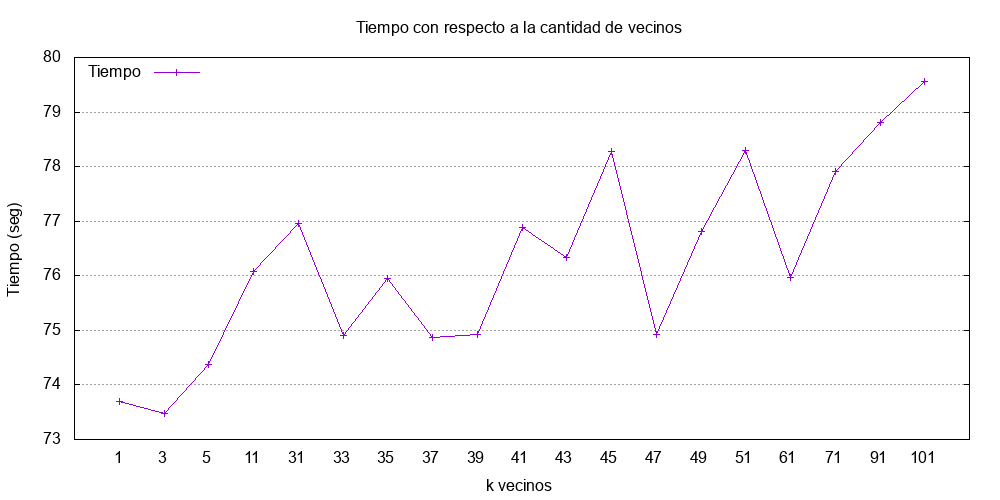
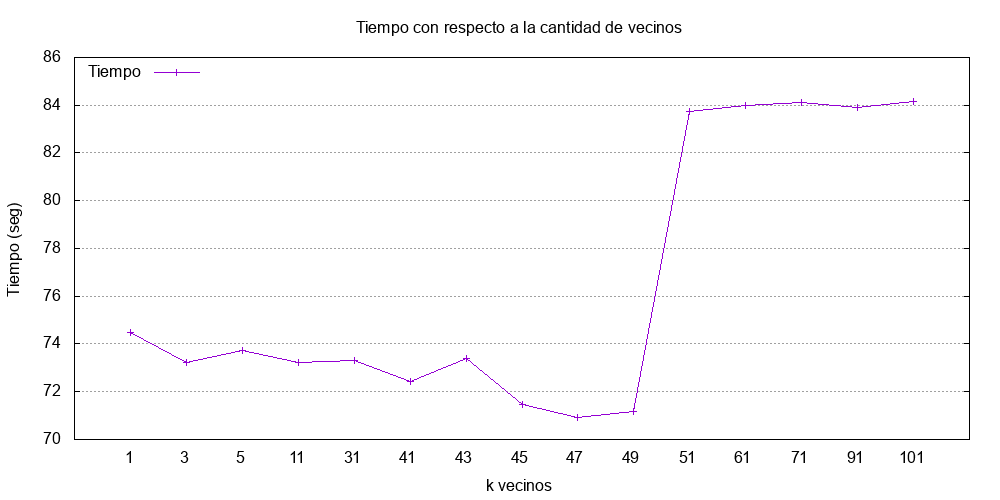
a

diff --git a/herramientas/resultadosF.py b/herramientas/resultadosF.py
@@ -19,8 +19,8 @@ neg_f1score = []
 for line in fileinput.input():
     lexp = line.split(",")
     if lexp[0] != "fqmin":
-        fmins.append(lexp[0]) 
-        fmaxs.append(lexp[1]) 
+        fmins.append(float(lexp[0])) 
+        fmaxs.append(float(lexp[1]))
         tams.append(int(lexp[2]))
         tiempos.append(float(lexp[3]))
         accuracys.append(float(lexp[4]))
@@ -31,11 +31,8 @@ for line in fileinput.input():
         neg_recall.append(float(lexp[9]))
         neg_f1score.append(float(lexp[10]))
         resto.append(lexp[11:])
-
-print tams
-print tiempos
-xtics=", ".join(["'"+str(tams[i])+"' "+str(i) for i in range(len(tams))])
-maxAcc = max(accuracys)
+size = len(accuracys)
+xtics=", ".join(["'"+str(tams[i])+"' "+str(i) for i in range(size)])
 
 g = Gnuplot.Gnuplot()
 g.xlabel("#palabras aceptadas")
@@ -43,79 +40,52 @@ g("set key top left")
 g("set terminal png size 1000, 500")
 g("set grid y")
 g("set grid x")
-#g("set style data histograms")
-#g("set style histogram rowstacked")
-#g("set boxwidth 0.8")
-#g("set style fill solid 1 border -1")
-#g("set xtics("+xtics+") scale 0")
-#g("set xrange [-1:"+str(len(tams))+"]")
-
-#g("set ytics 0.01 nomirror")
-#g("set yrange [0.65:0.68]")
-
-#g("xequiv=100")
-d7 = Gnuplot.Data(tams,tiempos,using="1:2",title="Tiempo",with_="linespoints")
-#d8 = Gnuplot.Data(range(len(tams)),[ maxAcc for i in range(len(tams))],using="2",title=str(round(maxAcc,6)).replace('.',','),with_="lines lt 2 lw 2")
-
-#PLOT ACCURACY
-#g("set yrange [:0.7]")
-g.ylabel("Tiempo(s)")
+d7 = Gnuplot.Data(tams,tiempos,using="1:2",title="Tiempo (seg)",with_="points")
+g.ylabel("Tiempo (seg)")
 g("set output 'tiempo-variacion-tam.png'")
 g.title("Tiempo con respecto al tamaño del vocabulario")
 g.plot(d7)
+del g
 
-"""g("set style histogram cluster gap 1")#g("set style histogram rowstacked")
+def igualFloat(valor,igual):
+    return igual-0.001 < valor and  valor < igual+0.001
+fminsSinDup = list(set(fmins))
+size2 = len(fminsSinDup)
 
-#PLOT F1SCORE
-g("set yrange [:0.74]")
-g.title("F1-score")
-g.ylabel("F1-score")
-#g("set yrange [0.5:0.8]")
-g("set output 'f1score-variacion-alfa.png'")
-g.plot(d5,d6)
-g("unset yrange")
+a = [ round(float(i)/100,2) for i in range(5,21,1)]
+b03 = [ round(accuracys[i],6) for i in range(size) if igualFloat(fmaxs[i],0.3)]
+b04 = [ round(accuracys[i],6) for i in range(size) if igualFloat(fmaxs[i],0.4)]
+b05 = [ round(accuracys[i],6) for i in range(size) if igualFloat(fmaxs[i],0.5)]
+b06 = [ round(accuracys[i],6) for i in range(size) if igualFloat(fmaxs[i],0.6)]
+b07 = [ round(accuracys[i],6) for i in range(size) if igualFloat(fmaxs[i],0.7)]
+b08 = [ round(accuracys[i],6) for i in range(size) if igualFloat(fmaxs[i],0.8)]
+b09 = [ round(accuracys[i],6) for i in range(size) if igualFloat(fmaxs[i],0.9)]
+b1  = [ round(accuracys[i],6) for i in range(size) if igualFloat(fmaxs[i],1)]
+xtics=", ".join(["'"+str(a[i]).replace(".",",")+"' "+str(i) for i in range(len(a))])
+#print a;
 
-#PLOT PRECISION
-g.title("Precision")
-g.ylabel("Precision")
-#g("set yrange [0.5:0.8]")
-#g("set ytics 0.05")
-g("set output 'precision-variacion-alfa.png'")
-dl = Gnuplot.Data(tams,[0.625 for i in range(len(tams))],using=2,with_="lines lw 2",title="0,625" )
-g.plot(d1,d2)
-g("unset yrange")
-
-#PLOT RECALL
-g.title("Recall")
-g.ylabel("Recall")
-#g("set yrange [0.4:0.9]")
-g("set output 'recall-variacion-alfa.png'")
-g.plot(d3,d4)
-g("unset yrange")
-
-
-d1 = Gnuplot.Data(tams,pos_precision,using="2", title="Precision")
-d2 = Gnuplot.Data(tams,neg_precision,using="2", title="Precision")
-d3 = Gnuplot.Data(tams,pos_recall,using="2", title="Recall" )
-d4 = Gnuplot.Data(tams,neg_recall,using="2", title="Recall" )
-d5 = Gnuplot.Data(tams,pos_f1score,using="2", title="F1-score" )
-d6 = Gnuplot.Data(tams,neg_f1score,using="2", title="F1-score" )
-
-#POSITIVAS
-g.title("Reviews Positivos")
-g.ylabel("Métricas")
-#g("set yrange [0.4:0.8]")
-g("set output 'metricas-pos-variacion-alfa.png'")
-g.plot(d1,d3,d5)
-g("unset yrange")
-
-#NEGATIVAS
-g.title("Reviews Negativos")
-g.ylabel("Métricas")
-#g("set yrange [0.5:0.9]")
-g("set output 'metricas-neg-variacion-alfa.png'")
-g.plot(d2,d4,d6)
-g("unset yrange")
-
-"""
+g = Gnuplot.Gnuplot()
+g.xlabel("freq min ")
+g("set key top right")
+g("set terminal png size 1000, 500")
+g("set style data histograms")
+g("set style histogram cluster gap 1")#g("set style histogram rowstacked")
+g("set boxwidth 1")
+g("set style fill solid 1 border 0")
+g("set xtics("+xtics+") scale 0")
+g("set xrange [-1:"+str(size2)+"]")
+g("set grid y")
+#g("set grid x")
+d1 = Gnuplot.Data(a, b03, using="2",title="frec. max=0,3")
+d2 = Gnuplot.Data(a, b04, using="2",title="frec. max=0,4")
+d3 = Gnuplot.Data(a, b05, using="2",title="frec. max=0,5")
+d4 = Gnuplot.Data(a, b06, using="2",title="frec. max=0,6")
+d5 = Gnuplot.Data(a, b07, using="2",title="frec. max=0,7")
+d6 = Gnuplot.Data(a, b08, using="2",title="frec. max=0,8")
+d7 = Gnuplot.Data(a, b09, using="2",title="frec. max=0,9")
+d8 = Gnuplot.Data(a, b1,  using="2",title="frec. max=1,0")
+g.ylabel("Accuracy")
+g("set output 'accuracy-variacion-frango.png'")
+g.title("Accuracy con respecto al rango de frecuencia de palabras")
+g.plot(d1,d2,d3,d4,d5,d6,d7,d8)
 del g

diff --git a/herramientas/resultadosTiempos.py b/herramientas/resultadosTiempos.py
@@ -4,120 +4,25 @@ import numpy
 import Gnuplot
 from functools import reduce
 
-resto = []
+metodos = []
+folds = []
+fmins = []
+fmaxs = []
 ks = []
+alfas = []
 tiempos = []
-accuracys= []
-pos_precision= []
-pos_recall = []
-pos_f1score = []
-neg_precision= []
-neg_recall = []
-neg_f1score = []
 for line in fileinput.input():
     lexp = line.split(",")
-    if lexp[0] != "k":
-        ks.append(int(lexp[0])) 
-        tiempos.append(float(lexp[1]))
-        accuracys.append(float(lexp[2]))
-        pos_precision.append(float(lexp[3]))
-        pos_recall.append(float(lexp[4]))
-        pos_f1score.append(float(lexp[5]))
-        neg_precision.append(float(lexp[6]))
-        neg_recall.append(float(lexp[7]))
-        neg_f1score.append(float(lexp[8]))
-        resto.append(lexp[9:])
+    if lexp[0] != "metodo":
+        metodos.append(lexp[0])
+        folds.append(lexp[1])
+        fmins.append(float(lexp[2]))
+        fmaxs.append(float(lexp[3]))
+        ks.append(int(lexp[4]))
+        alfas.append(int(lexp[5]))
+        tiempos.append(float(lexp[6]))
 
-xtics=", ".join(["'"+str(ks[i])+"' "+str(i) for i in range(len(ks))])        
-maxAcc = max(accuracys)
-
-g = Gnuplot.Gnuplot()
-g.xlabel("k vecinos")
-g("set key top left")
-g("set terminal png size 1000, 500")
-g("set grid y")
-g("set style data histograms")
-g("set style histogram rowstacked")
-g("set boxwidth 0.8")
-g("set style fill solid 1 border -1")
-g("set xtics("+xtics+") scale 0")
-g("set xrange [-1:"+str(len(ks))+"]")
-
-#g("set ytics 0.01 nomirror")
-#g("set yrange [0.65:0.68]")
-
-#g("xequiv=100")
-d1 = Gnuplot.Data(ks,pos_precision,using="2", title="Reviews Positivos")
-d2 = Gnuplot.Data(ks,neg_precision,using="2", title="Reviews Negativos")
-d3 = Gnuplot.Data(ks,pos_recall,using="2", title="Reviews Positivos" )
-d4 = Gnuplot.Data(ks,neg_recall,using="2", title="Reviews Negativos" )
-d5 = Gnuplot.Data(ks,pos_f1score,using="2", title="Reviews Positivos" )
-d6 = Gnuplot.Data(ks,neg_f1score,using="2", title="Reviews Negativos" )
-d7 = Gnuplot.Data(ks,accuracys,using="2",title="Accuracy")
-d8 = Gnuplot.Data(range(len(ks)),[ maxAcc for i in range(len(ks))],using="2",title=str(round(maxAcc,6)).replace('.',','),with_="lines lt 2 lw 2")
-
-#PLOT ACCURACY
-g("set yrange [:0.68]")
-g.ylabel("Accuracy")
-g("set output 'accuracy-variacion-k.png'")
-g.title("Evolución de accuracy ante variación de la cantidad de vecinos")
-g.plot(d7,d8)
-g("unset yrange")
-
-g("set style histogram cluster gap 1")#g("set style histogram rowstacked")
-
-#PLOT F1SCORE
-g("set yrange [:0.74]")
-g.title("F1-score")
-g.ylabel("F1-score")
-#g("set yrange [0.5:0.8]")
-g("set output 'f1score-variacion-k.png'")
-g.plot(d5,d6)
-g("unset yrange")
-
-#PLOT PRECISION
-g.title("Precision")
-g.ylabel("Precision")
-#g("set yrange [0.5:0.8]")
-#g("set ytics 0.05")
-g("set output 'precision-variacion-k.png'")
-dl = Gnuplot.Data(ks,[0.625 for i in range(len(ks))],using=2,with_="lines lw 2",title="0,625" )
-g.plot(d1,d2)
-g("unset yrange")
-
-#PLOT RECALL
-g.title("Recall")
-g.ylabel("Recall")
-#g("set yrange [0.4:0.9]")
-g("set output 'recall-variacion-k.png'")
-g.plot(d3,d4)
-g("unset yrange")
-
-
-d1 = Gnuplot.Data(ks,pos_precision,using="2", title="Precision")
-d2 = Gnuplot.Data(ks,neg_precision,using="2", title="Precision")
-d3 = Gnuplot.Data(ks,pos_recall,using="2", title="Recall" )
-d4 = Gnuplot.Data(ks,neg_recall,using="2", title="Recall" )
-d5 = Gnuplot.Data(ks,pos_f1score,using="2", title="F1-score" )
-d6 = Gnuplot.Data(ks,neg_f1score,using="2", title="F1-score" )
-
-#POSITIVAS
-g.title("Reviews Positivos")
-g.ylabel("Métricas")
-#g("set yrange [0.4:0.8]")
-g("set output 'metricas-pos-variacion-k.png'")
-g.plot(d1,d3,d5)
-g("unset yrange")
-
-#NEGATIVAS
-g.title("Reviews Negativos")
-g.ylabel("Métricas")
-#g("set yrange [0.5:0.9]")
-g("set output 'metricas-neg-variacion-k.png'")
-g.plot(d2,d4,d6)
-g("unset yrange")
-del g
-
+xtics=", ".join(["'"+str(ks[i])+"' "+str(i) for i in range(len(ks))])
 
 g = Gnuplot.Gnuplot()
 g.xlabel("k vecinos")

diff --git a/herramientas/analizandoFreq.php b/herramientas/analizandoFreq.php
@@ -34,7 +34,7 @@ $folds = [2, 5, 10, 25];
 $ks = [1, 3, 5, 11, 31, 33, 35, 37, 39, 41, 43, 45, 47, 49, 51, 61, 71, 91, 101];
 $alfas = range(10, 100, 10);
 $fmins = range(0.05, 0.2, 0.01);
-$fmaxs = range(0.3, 1.1, 0.1);
+$fmaxs = range(0.3, 1, 0.1);
 
 $archivo = fopen("resultados/agrupadosFreq.csv", 'r');
 $datos = [];

diff --git a/herramientas/agruparResultadosFreq.php b/herramientas/agruparResultadosFreq.php
@@ -4,7 +4,7 @@ $folds = [2, 5, 10, 25];
 $ks = [1, 3, 5, 11, 31, 33, 35, 37, 39, 41, 43, 45, 47, 49, 51, 61, 71, 91, 101];
 $alfas = range(10,100,10);
 $fmins = range(0.05, 0.2, 0.01);
-$fmaxs = range(0.3, 1.1, 0.1);
+$fmaxs = range(0.3, 1, 0.1);
 
 $ks = [35];//jarcodinggggg
 $alfas = [40];

diff --git a/herramientas/ejecutarFoldsFreq.php b/herramientas/ejecutarFoldsFreq.php
@@ -5,7 +5,7 @@ $ks = [1, 3, 5, 11, 31, 41, 43, 45, 47, 49, 51, 61, 71, 91, 101];
 $alfas = range(10, 200, 10);
 $metodo = 1;
 $fmins = range(0.05, 0.2, 0.01);
-$fmaxs = range(0.3, 1.1, 0.1);
+$fmaxs = range(0.3, 1, 0.1);
 
 $alfas = [40];
 $ks = [35];

diff --git a/herramientas/agruparResultadosTiempos.php b/herramientas/agruparResultadosTiempos.php
@@ -1,7 +1,7 @@
 <?php
 
 $folds = [2, 5, 10, 25];
-$ks = [1, 3, 5, 11, 31, 41, 43, 45, 47, 49, 51, 61, 71, 91, 101];
+$ks = [1, 3, 5, 11, 31, 33, 35, 37, 39, 41, 43, 45, 47, 49, 51, 61, 71, 91, 101];
 $alfas = range(10, 100, 10);
 
 $folds = [25];

diff --git a/herramientas/ejecutarFoldsTiempo.php b/herramientas/ejecutarFoldsTiempo.php
@@ -1,7 +1,7 @@
 <?php
 
 $folds = [2, 5, 10, 25];
-$ks = [1, 3, 5, 11, 31, 41, 43, 45, 47, 49, 51, 61, 71, 91, 101];
+$ks = [1, 3, 5, 11, 31, 33, 35, 37, 39, 41, 43, 45, 47, 49, 51, 61, 71, 91, 101];
 $alfas = range(10,100,10);
 
 $folds = [25];

diff --git a/herramientas/ejecutarFolds.php b/herramientas/ejecutarFolds.php
@@ -1,7 +1,7 @@
 <?php
 
 $folds = [2, 5, 10, 25];
-$ks = [1, 3, 5, 11, 31, 41, 43, 45, 47, 49, 51, 61, 71, 91, 101];
+$ks = [1, 3, 5, 11, 31, 33, 35, 37, 39, 41, 43, 45, 47, 49, 51, 61, 71, 91, 101];
 $folds = [25];
 
 $metodo = 0;

diff --git a/herramientas/contarPalabras.php b/herramientas/contarPalabras.php
@@ -1,7 +1,7 @@
 <?php
 
 $fmins = range(0.05, 0.2, 0.01);
-$fmaxs = range(0.3, 1.1, 0.1);
+$fmaxs = range(0.3, 1, 0.1);
 
 $arch = fopen("datos/vocab.csv", "r");
 $palabras=[];
